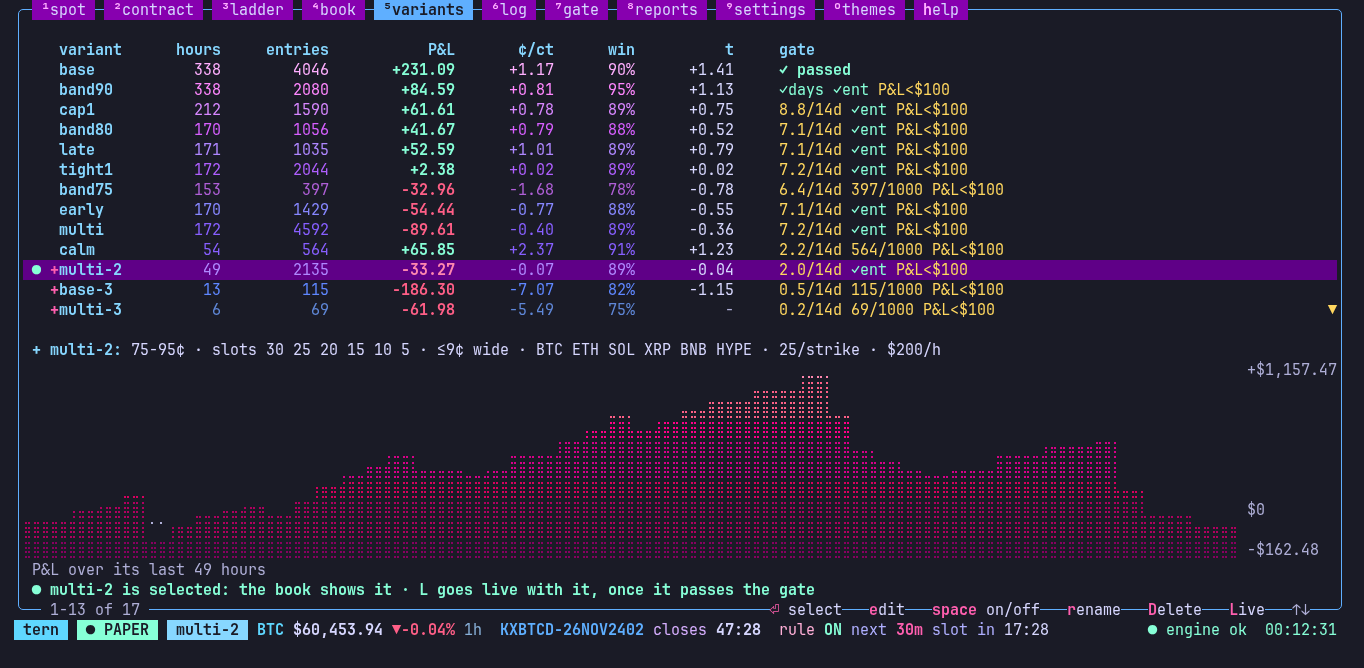
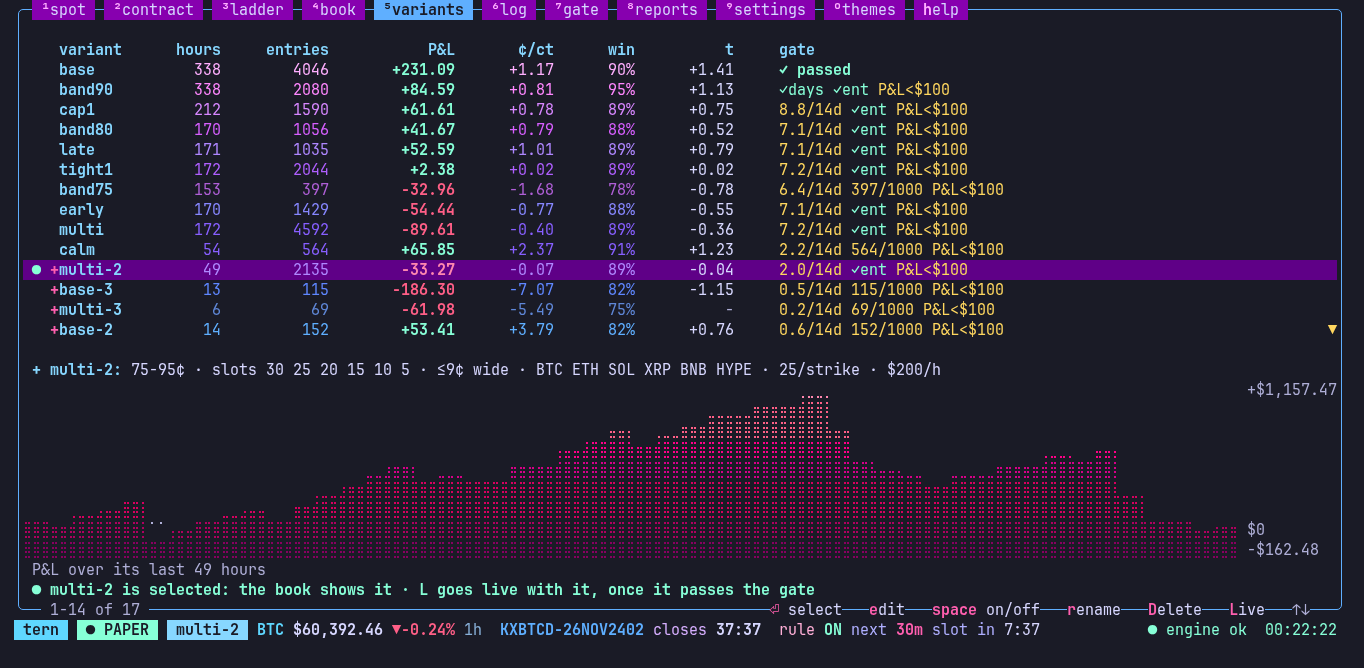
A box's keys work only on it; the variants graph a little shorter

diff --git a/tern/dash.py b/tern/dash.py
@@ -376,7 +376,7 @@ HELP_BOXES = [
     ("⁰", "themes", f"{len(themes.NAMES)} color themes: the one highlighted is in use"),
     ("", "help", "(h) this"),
     ("", "tabs", "one box fills the screen; the others are tabs on its top border: their keys show one, (tab) steps through. "
-                 "Its own keys are on its bottom border, and the log's has every key that isn't one box's"),
+                 "Its own keys are on its bottom border and work only there; the log's are the ones that work everywhere"),
     ("", "status", "bottom row: PAPER or LIVE, the coin's price and 1h change, the hourly event and time to its close, rule "
                    "ON/off with the next slot (+live when live trades), stale data warnings (usually Wi-Fi), engine ok / stale / down"),
 ]
@@ -489,6 +489,12 @@ PANEL_KEYS = {
     "themes": lambda s: [("↑↓ ←→", " pick")],
     "help": lambda s: [("↑↓", " pick"), ("PgUp PgDn", " scroll")],
 }
+
+
+# the keys that are some boxes' alone, and work only there (settings' own, and a variant's editor's, come first in key());
+# the rest, the log's t P q among them, work on every box
+KEYS_ON = {**dict.fromkeys("\n\r reD", ("variants",)), "C": ("spot", "contract", "ladder"), "c": ("spot",), "V": ("book",),
+           "L": ("book", "variants", "gate"), "s": ("reports",)}
 
 
 def selected_overlay(st: dict, name: str | None) -> dict:
@@ -640,10 +646,6 @@ class Screen:
         """A box's key, tab: that box fills the screen."""
         self.tab, self.flash, self.set_buf = name, "", None
         self.save_prefs()
-
-    def back_to(self, what: str) -> str:
-        """How to get to the variants when they aren't on screen."""
-        return f"{BOX_KEYS[BOXES.index('variants')]} shows them, {what}"
 
     def shown(self, name: str) -> bool:
         return name == self.tab
@@ -1157,7 +1159,7 @@ class Screen:
         self.put(y + 1, x + 5, "variant", head); self.put(y + 1, at["gate"], "gate", head)
         # The graph's size is the box's alone, whatever the list holds. The list scrolls over it, under its fixed header:
         # the rows that fit, moved so the highlighted one shows.
-        gh = h // 3
+        gh = h * 3 // 10
         gy = y + h - 3 - gh
         self.var_rows = rows = gy - y - 4
         si = names.index(self.var_sel)
@@ -1251,8 +1253,6 @@ class Screen:
 
     def select_variant(self) -> None:
         """enter: the highlighted variant is the one the book, band and gate show. Nothing that trades changes."""
-        if not self.shown("variants"):
-            self.say("enter selects a variant: " + self.back_to("highlight one, then enter")); return
         cur = self.vrow(self.var_sel)
         if cur is None:
             return
@@ -1375,8 +1375,8 @@ class Screen:
     def rename_ask(self) -> None:
         """r: rename the highlighted variant."""
         v = self.var_sel
-        if not self.shown("variants") or self.vrow(v) is None:
-            self.say("r renames a variant: " + self.back_to("highlight one, then r")); return
+        if self.vrow(v) is None:
+            self.say("no variants from the engine yet"); return
         name, mx = self.vn(v), namesmod.VARIANT_NAME_MAX
         self.modal = {"type": "rename", "title": f"rename {name}", "color": CYAN, "buf": name, "max": mx,
                       "target": {"variant": v},
@@ -2489,6 +2489,10 @@ class Screen:
             return True
         if ch in (ord("q"), ord("Q")):
             return False
+        if ch == curses.KEY_ENTER:
+            ch = 10
+        if self.tab not in KEYS_ON.get(chr(ch) if 0 <= ch < 128 else "", BOXES):   # another box's key: nothing here
+            return True
         if ch in (curses.KEY_UP, curses.KEY_DOWN, curses.KEY_PPAGE, curses.KEY_NPAGE, ord("k"), ord("j")):
             page = ch in (curses.KEY_PPAGE, curses.KEY_NPAGE)
             self.scroll({"reports": "report", "help": "helptext"}.get(self.tab, self.tab) if page else self.tab, {curses.KEY_UP: -1, ord("k"): -1, curses.KEY_DOWN: 1, ord("j"): 1,
@@ -2497,14 +2501,10 @@ class Screen:
             self.scroll({"reports": "report", "help": "helptext"}.get(self.tab, self.tab), -10 ** 6 if ch == curses.KEY_HOME else 10 ** 6)
         elif ch in (curses.KEY_LEFT, curses.KEY_RIGHT) and self.tab == "themes":
             self.scroll("themes", -self.theme_rows if ch == curses.KEY_LEFT else self.theme_rows)
-        elif ch in (10, 13, curses.KEY_ENTER):
+        elif ch in (10, 13):
             self.select_variant()
         elif ch in (ord("D"), ord(" ")):
-            if self.shown("variants"):
-                self.variant_key(ch)
-            else:
-                self.say(("D deletes a variant: " if ch == ord("D") else "space turns a variant on or off: ") +
-                         self.back_to("highlight one first"))
+            self.variant_key(ch)
         elif ch == ord("r"):
             self.rename_ask()
         elif 0 < ch < 128 and chr(ch) in BOX_KEYS:
@@ -2515,21 +2515,18 @@ class Screen:
             order = list(cfgmod.SERIES)
             self.series = order[(order.index(self.series) + 1) % len(order)] if self.series in order else order[0]
             self.sel = None; self.write_view(); self.save_prefs(); self.say(f"viewing {cfgmod.SERIES[self.series]}")
-        elif ch == ord("c") and self.shown("spot"):
+        elif ch == ord("c"):
             order = list(CHARTS)
             self.chart = order[(order.index(self.chart) + 1) % len(order)] if self.chart in order else "15m"
             self.save_prefs()
-        elif ch == ord("V") and self.shown("book"):
+        elif ch == ord("V"):
             cur = self.book_view or ("live" if self.st.get("mode") == "live" else "paper")
             self.book_view = "live" if cur == "paper" else "paper"
         elif ch == ord("e"):
-            if self.shown("variants"):
-                self.edit_variant()
-            else:
-                self.say("e edits a variant: " + self.back_to("highlight one, then e"))
+            self.edit_variant()
         elif ch == ord("P"):
             self.engine_key()
-        elif ch == ord("s") and self.shown("reports"):
+        elif ch == ord("s"):
             self.save_report()
         elif ch == ord("L"):
             self.live_key()

diff --git a/tests/test_tern.py b/tests/test_tern.py
@@ -1565,8 +1565,44 @@ class Tabs(Rig, unittest.TestCase):
             self.press("5", "e")
             self.assertIn("CHANGES", self.text())
 
+    def test_a_boxs_keys_work_only_on_it(self):
+        from tern import dash
+        with tempfile.TemporaryDirectory() as d:
+            k, scr = self.setup(d)
+            for key, name in zip(dash.BOX_KEYS, dash.BOXES):
+                self.press(key); self.cmds()
+                state = lambda: (scr.tab, scr.flash, scr.modal, scr.overlay, scr.series, scr.chart, scr.book_view, scr.variant, scr.var_sel, self.cmds())
+                for ch, boxes in [*dash.KEYS_ON.items(), (self.curses.KEY_ENTER, ("variants",))]:
+                    if name in boxes or name == "settings" and ch in ("\n", "\r", " ", self.curses.KEY_ENTER):   # (settings' own too)
+                        continue
+                    before = state()
+                    self.press(ch)
+                    self.assertEqual(state(), before, (name, ch))
+            self.press("5", self.curses.KEY_ENTER); self.assertEqual(scr.variant, scr.var_sel)
+            self.press("1", "c"); self.assertEqual(scr.chart, "1h")
+            self.press("3", "C"); self.assertEqual(scr.series, "KXETHD")
+            self.press("7", "L"); self.assertIsNotNone(scr.modal); self.press(27)
+            self.press("4", "V"); self.assertEqual(scr.book_view, "live")
+            self.press("h", "t"); self.assertIn("theme", scr.flash)             # the log's work everywhere
+
+    def test_the_web_says_view_only_only_there(self):
+        from tern import dash
+        from tern.web import Hub
+        with tempfile.TemporaryDirectory() as d:
+            k, scr = self.setup(d)
+            hub = Hub(d); sid = hub.handle({"w": 120, "h": 40})["sid"]
+            w = hub.sessions[sid][0]
+            for key in dash.BOX_KEYS:
+                hub.handle({"sid": sid, "w": 120, "h": 40, "key": key})
+                for ch in ("r", "D", "L", "s", " ", "P"):
+                    w.flash = ""
+                    hub.handle({"sid": sid, "w": 120, "h": 40, "key": ch})
+                    there = w.tab in dash.KEYS_ON.get(ch, dash.BOXES)
+                    if not (w.tab == "settings" and ch == " "):
+                        self.assertEqual("view only" in w.flash, there, (w.tab, ch))
+
     def test_the_variants_graph_keeps_its_size(self):
-        for H, W, room in ((30, 100, 12), (32, 148, 13), (44, 160, 21)):
+        for H, W, room in ((30, 100, 13), (32, 148, 14), (44, 160, 23)):
             with tempfile.TemporaryDirectory() as d:
                 k, scr = self.setup(d, H, W)
                 self.press("5")
@@ -1708,9 +1744,6 @@ class Tabs(Rig, unittest.TestCase):
     def test_enter_selects_and_changes_nothing_else(self):
         with tempfile.TemporaryDirectory() as d:
             k, scr = self.setup(d)
-            for key in (10, "D", " ", "r", "e"):                                # the variants' keys say where they are
-                self.press(key)
-                self.assertIn("5 shows them", scr.flash, key)
             self.press("5"); self.cmds()
             for name in ("band90", "late"):
                 scr.var_sel = name
@@ -2086,7 +2119,7 @@ class ScreenVariants(Rig, unittest.TestCase):
             k, scr = self.setup(d)
             scr.variant, scr.var_sel = "late", "band90"; self.sync()
             self.press("e")
-            self.assertIsNone(scr.overlay); self.assertIn("5 shows them", scr.flash)
+            self.assertEqual((scr.overlay, scr.flash), (None, ""))             # only on the variants
             self.press("5", "e")
             self.assertEqual((scr.overlay, scr.edit_var), ("edit", "band90"))
             self.assertIn("RULE  band90", self.text()); self.assertIn("─save as new─", self.text())
@@ -2622,7 +2655,7 @@ class OneList(Rig, unittest.TestCase):
         with tempfile.TemporaryDirectory() as d:
             k, scr = self.setup(d)
             scr.variant = "band90"; self.sync()
-            self.press("L")
+            self.press("7", "L")
             for want in ("ARM LIVE", "It would trade band90", "has not passed its gate", "type live"):
                 self.assertIn(want, self.text())
             self.press(*"yes", 10)
@@ -2657,7 +2690,7 @@ class OneList(Rig, unittest.TestCase):
         with tempfile.TemporaryDirectory() as d:
             k, scr = self.setup(d)
             k.cfg.live.enabled, k.cfg.live.variant = True, "late"; scr.variant = "late"; self.sync()
-            self.press("L")
+            self.press("4", "L")
             self.assertIsNone(scr.modal)
             self.assertEqual([(c["op"], c["on"]) for c in self.run_cmds()], [("live", False)])
             self.assertFalse(k.cfg.live.enabled)
@@ -2722,7 +2755,7 @@ class OneList(Rig, unittest.TestCase):
         with tempfile.TemporaryDirectory() as d:
             k, scr = self.setup(d)
             self.press("r")
-            self.assertIn("5 shows them", scr.flash); self.assertIsNone(scr.modal)   # the variants' key
+            self.assertEqual((scr.modal, scr.flash), (None, ""))               # only on the variants
             self.assertNotIn("rule on/off", self.text()); self.assertNotIn("Restart", self.text())
             self.press("5"); self.assertIn("─rename─", self.text())
             scr.var_sel = "late"; self.press("r", 21, *"slow", 10)

diff --git a/tern/web.py b/tern/web.py
@@ -261,7 +261,7 @@ class WebScreen(dash.Screen):
             return
         if name in VIEW_KEYS or self.tab == "settings" and name in (" ", "+", "-", "="):   # (a setting: send_setting)
             self.key(code)
-        elif name in CONTROL_KEYS:
+        elif name in CONTROL_KEYS and self.tab in dash.KEYS_ON.get(name, dash.BOXES):
             self.say(f"view only: {CONTROL_KEYS[name]} is done from the screen in the terminal")
 
     def wheel_at(self, cy: int, cx: int, d: int) -> None:

diff --git a/README.md b/README.md
@@ -64,7 +64,7 @@ The write-up is [research/RESEARCH.md](research/RESEARCH.md).
 
 One box fills the screen: spot, contract, ladder, book, variants, log, gate, reports, settings, themes or help. The
 others are tabs on its top border: the key on a tab (`1` to `9`, `0`, `h`) shows it, and `tab` and shift+tab step
-through them. A box's own keys are on its bottom border, and the log's has every key that isn't one box's. The status
+through them. A box's own keys are on its bottom border and work only there; the log's are the ones that work everywhere. The status
 line is always at the bottom.
 
 <img width="1364" height="668" alt="The variants, and the highlighted one's P&L by hour" src="docs/screenshots/02-page2-compare.png" />
@@ -233,23 +233,24 @@ Requests are signed (Ed25519 or RSA-PSS) in pure Python, checked against openssl
 
 ## Keys
 
-| Key | What it does |
-|---|---|
-| `1`–`9` `0` `h` `tab` shift+tab | show a box |
-| `↑↓` `j` `k` `PgUp` `PgDn` | move in the box; so does the mouse wheel |
-| `C` | next coin |
-| `c` | chart span: 5m, 15m, 1h, 24h |
-| `t` / `T` | next / previous color theme, on any screen |
-| `↑↓` `←→` | themes: pick one; settings: pick and step |
-| `V` | paper / live book |
-| `enter` | select the highlighted variant |
-| `e` | edit the highlighted variant; `s` saves a new variant, `esc` discards |
-| `space` | turn the highlighted variant on / off |
-| `D` `r` | delete / rename it |
-| `s` | reports: save the one shown |
-| `L` | live: on with the selected variant, off, or moved to it |
-| `P` | pause (asks `y`) / start the engine |
-| `q` | close the screen; the engine keeps running |
+| Where | Key | What it does |
+|---|---|---|
+| everywhere | `1`–`9` `0` `h` `tab` shift+tab | show a box |
+| everywhere | `↑↓` `j` `k` `PgUp` `PgDn` `Home` `End` | move in the box; so does the mouse wheel |
+| everywhere | `t` / `T` | next / previous color theme |
+| everywhere | `P` | pause (asks `y`) / start the engine |
+| everywhere | `q` | close the screen; the engine keeps running |
+| spot, contract, ladder | `C` | next coin |
+| spot | `c` | chart span: 5m, 15m, 1h, 24h |
+| book | `V` | paper / live book |
+| book, variants, gate | `L` | live: on with the selected variant, off, or moved to it |
+| variants | `enter` | select the highlighted one |
+| variants | `e` | edit the highlighted one; `s` saves a new variant, `esc` discards |
+| variants | `space` | turn the highlighted one on / off |
+| variants | `D` `r` | delete / rename it |
+| reports | `s` | save the one shown |
+| settings | `←→` `enter` | step / type a value |
+| themes | `↑↓` `←→` | pick one |
 
 ### Reports
 
